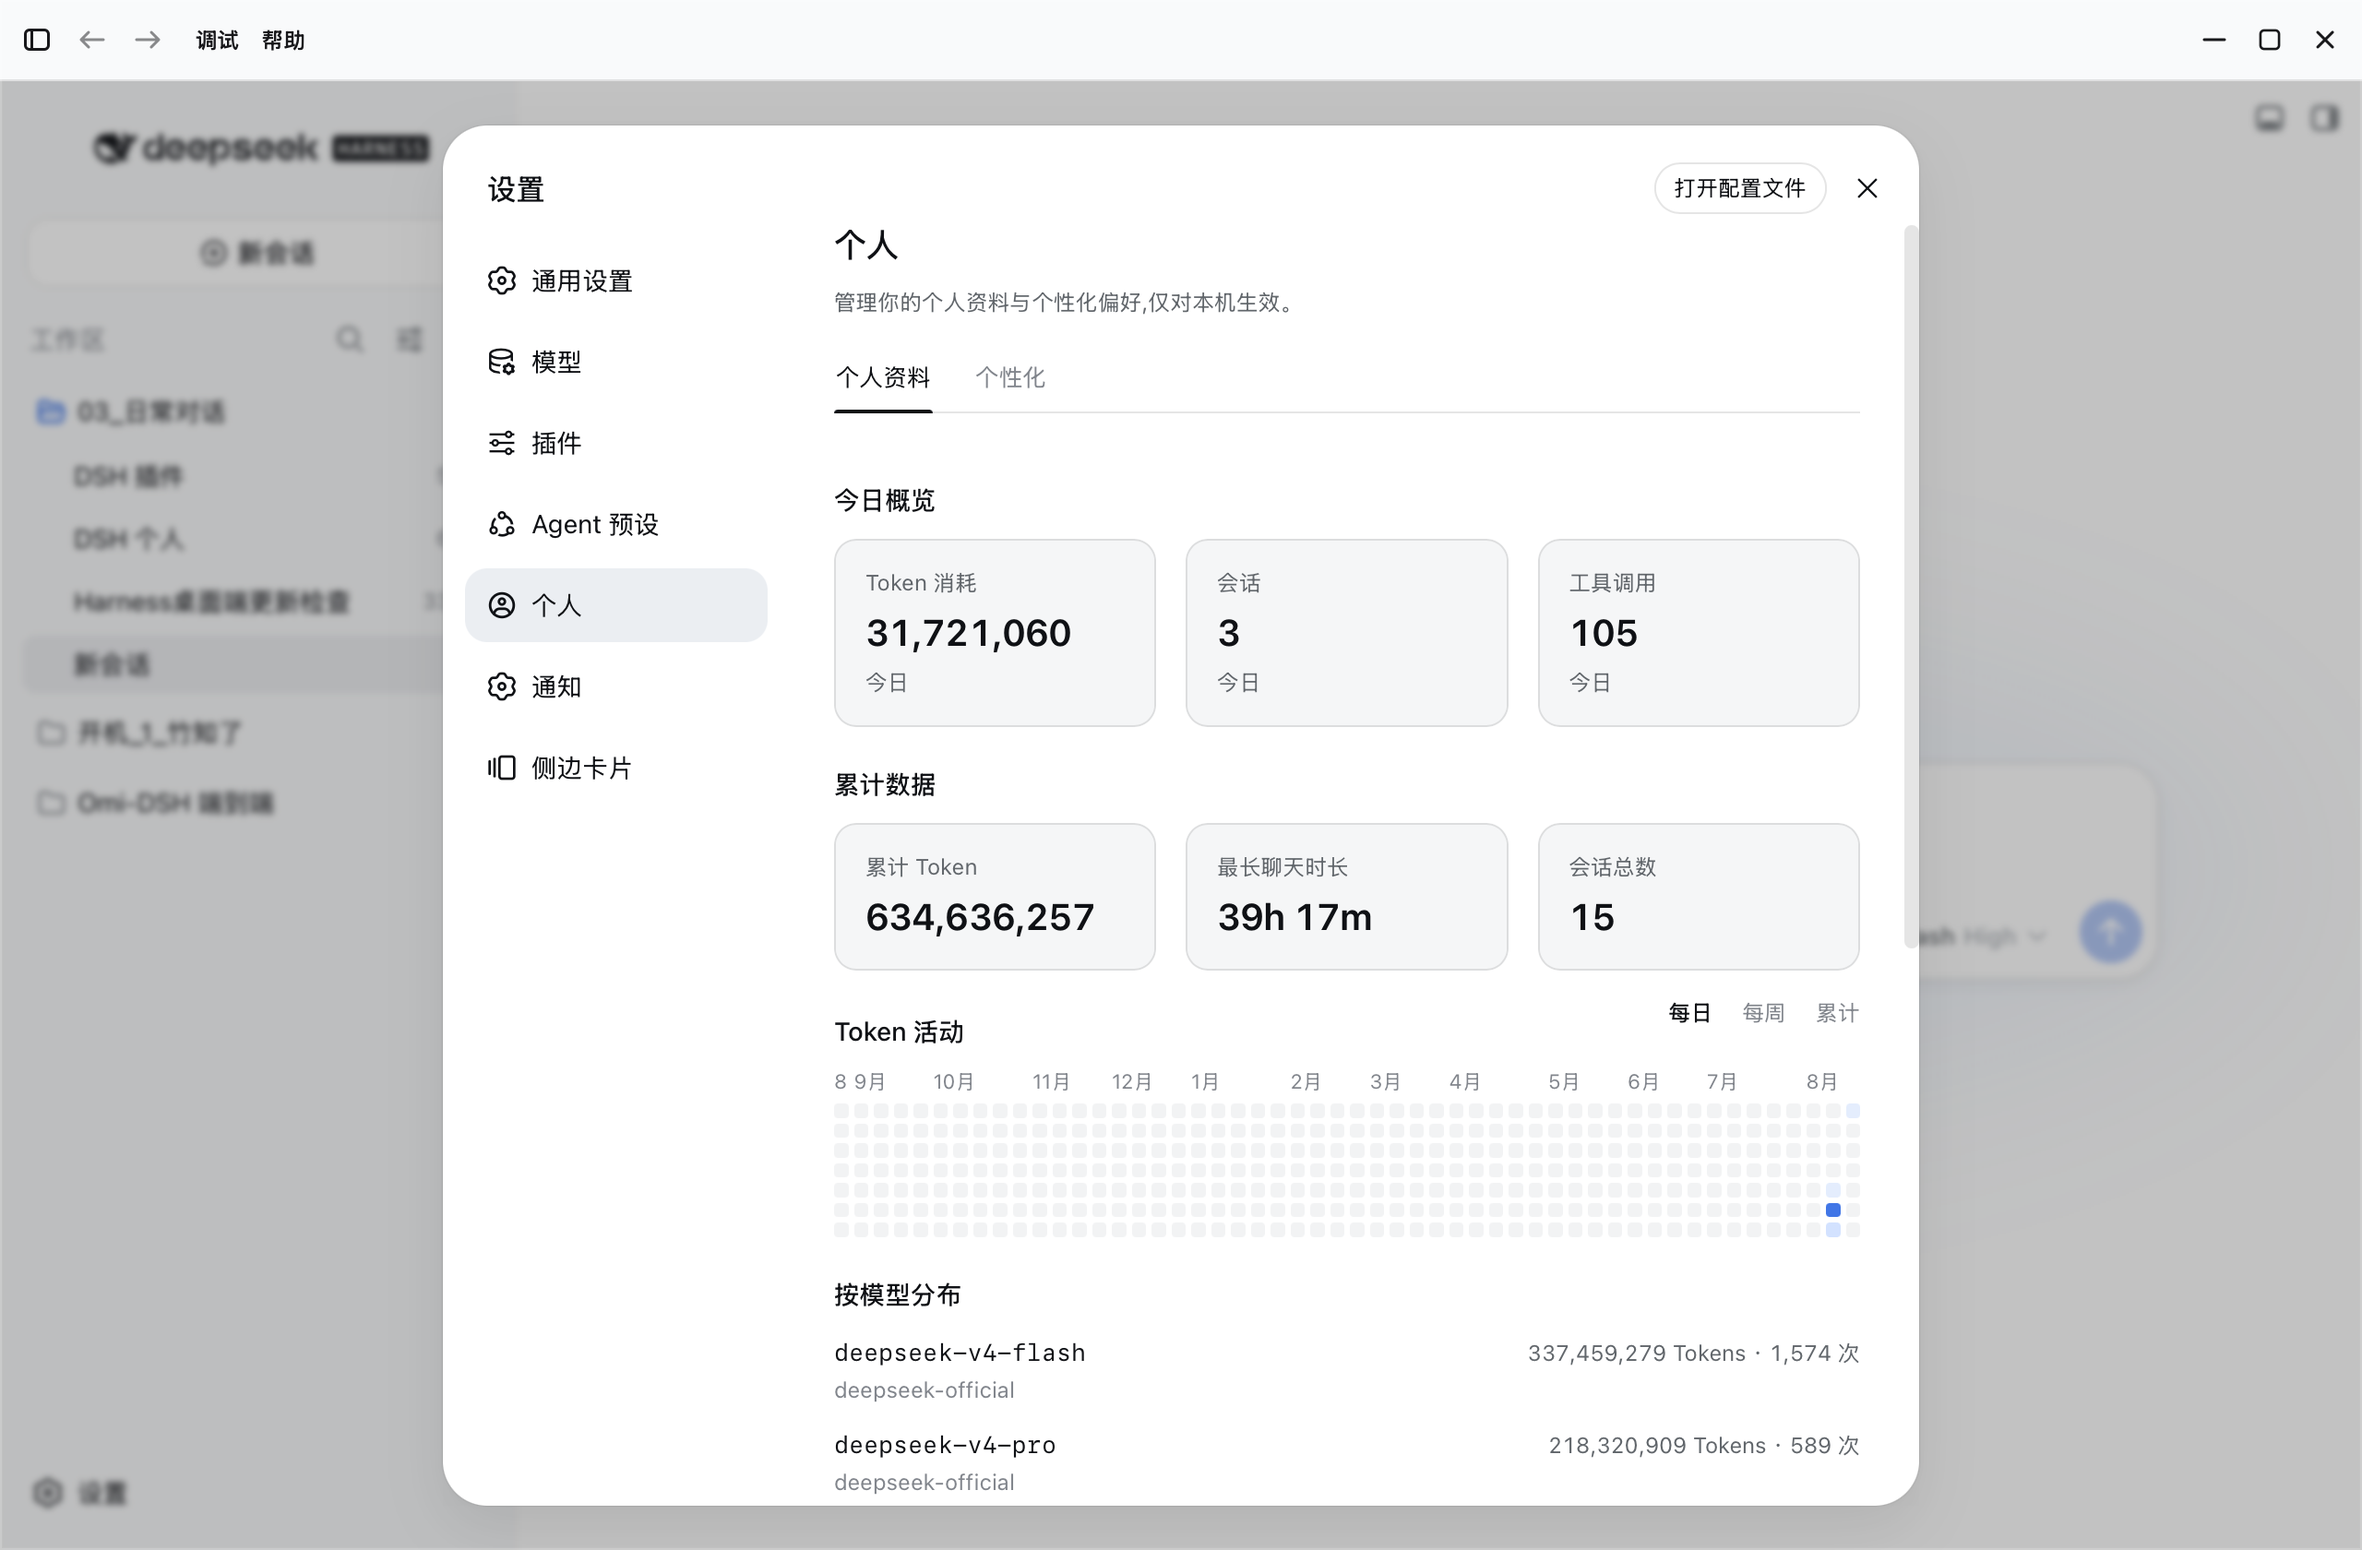
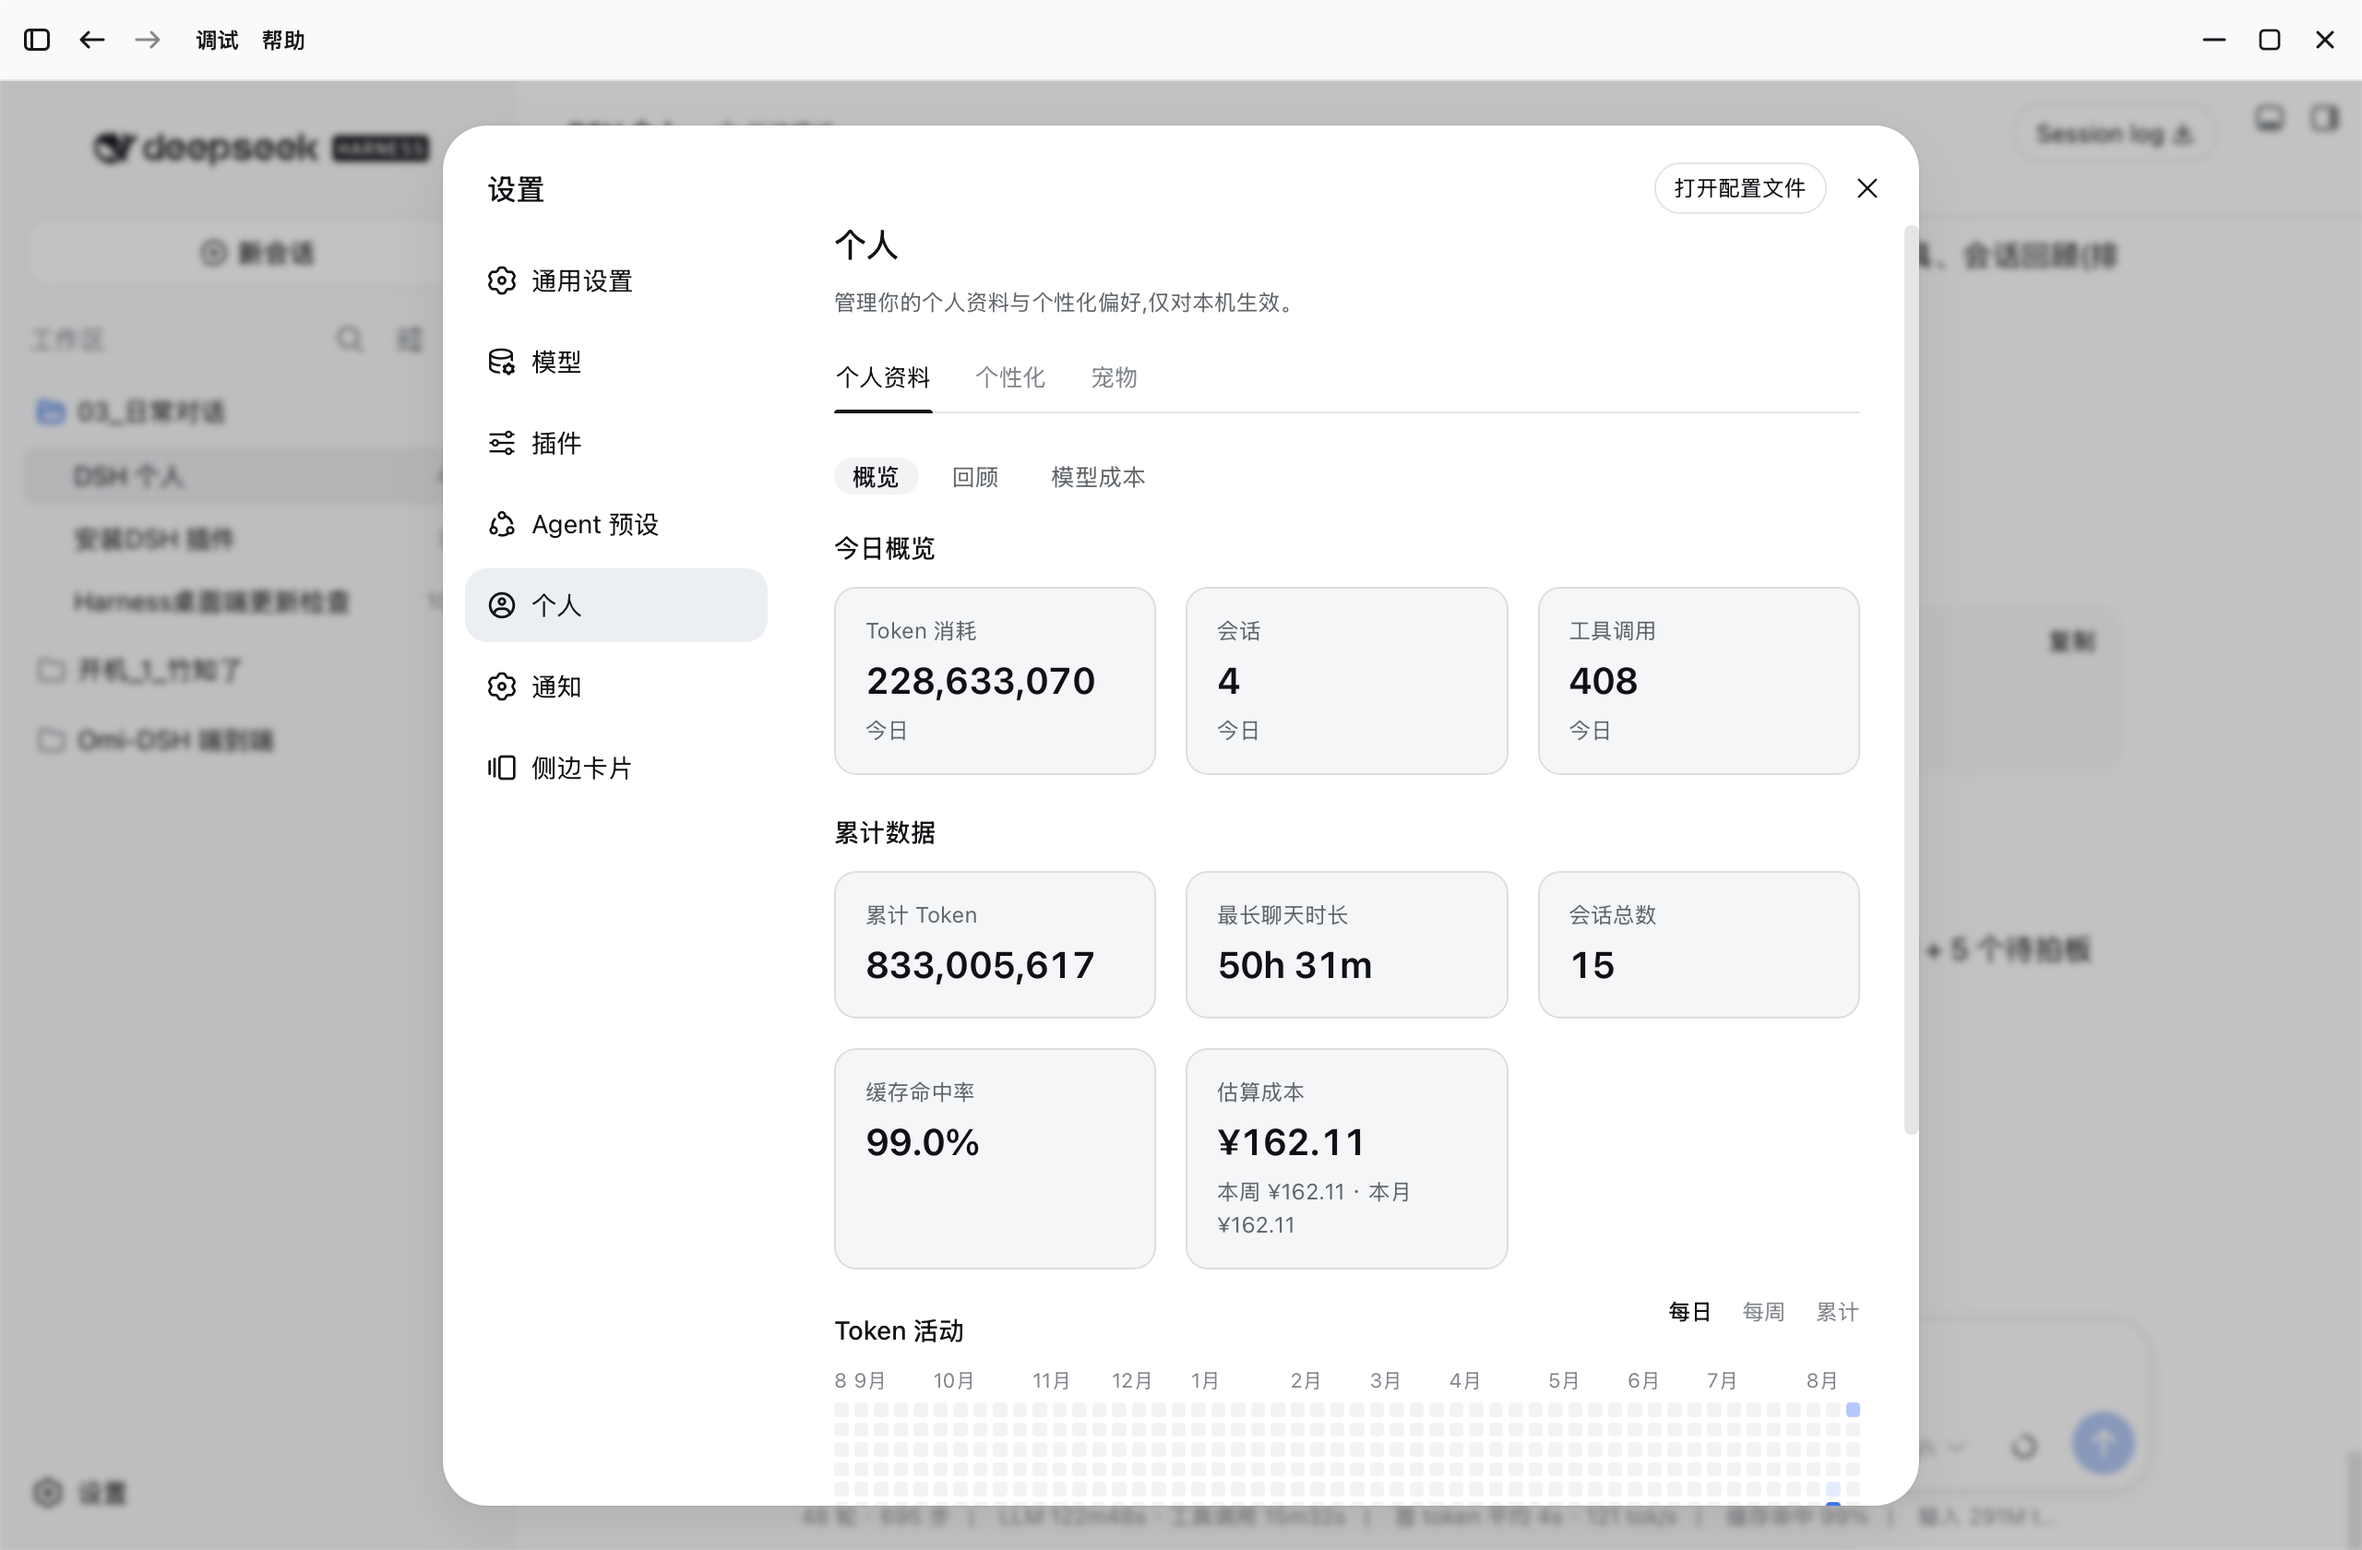
docs: 更新截图(v0.3:个人资料/回顾/模型成本/宠物)

diff --git a/README.md b/README.md
@@ -12,10 +12,13 @@
 
 ## 📸 截图
 
-| 浅色 | 深色 |
+| 浅色 · 个人资料 | 深色 · 回顾 |
 |---|---|
-| ![个人资料 · 浅色](docs/screenshots/light-profile.png) | ![个人资料 · 深色](docs/screenshots/dark-profile.png) |
-| ![个性化 · 浅色](docs/screenshots/light-personalization.png) | ![个性化 · 深色](docs/screenshots/dark-personalization.png) |
+| ![个人资料 · 浅色](docs/screenshots/light-profile.png) | ![回顾 · 深色](docs/screenshots/dark-review.png) |
+
+| 浅色 · 宠物 | 深色 · 模型成本 |
+|---|---|
+| ![宠物 · 浅色](docs/screenshots/light-pet.png) | ![模型成本 · 深色](docs/screenshots/dark-model-cost.png) |
 
 ## ✨ 功能
 
